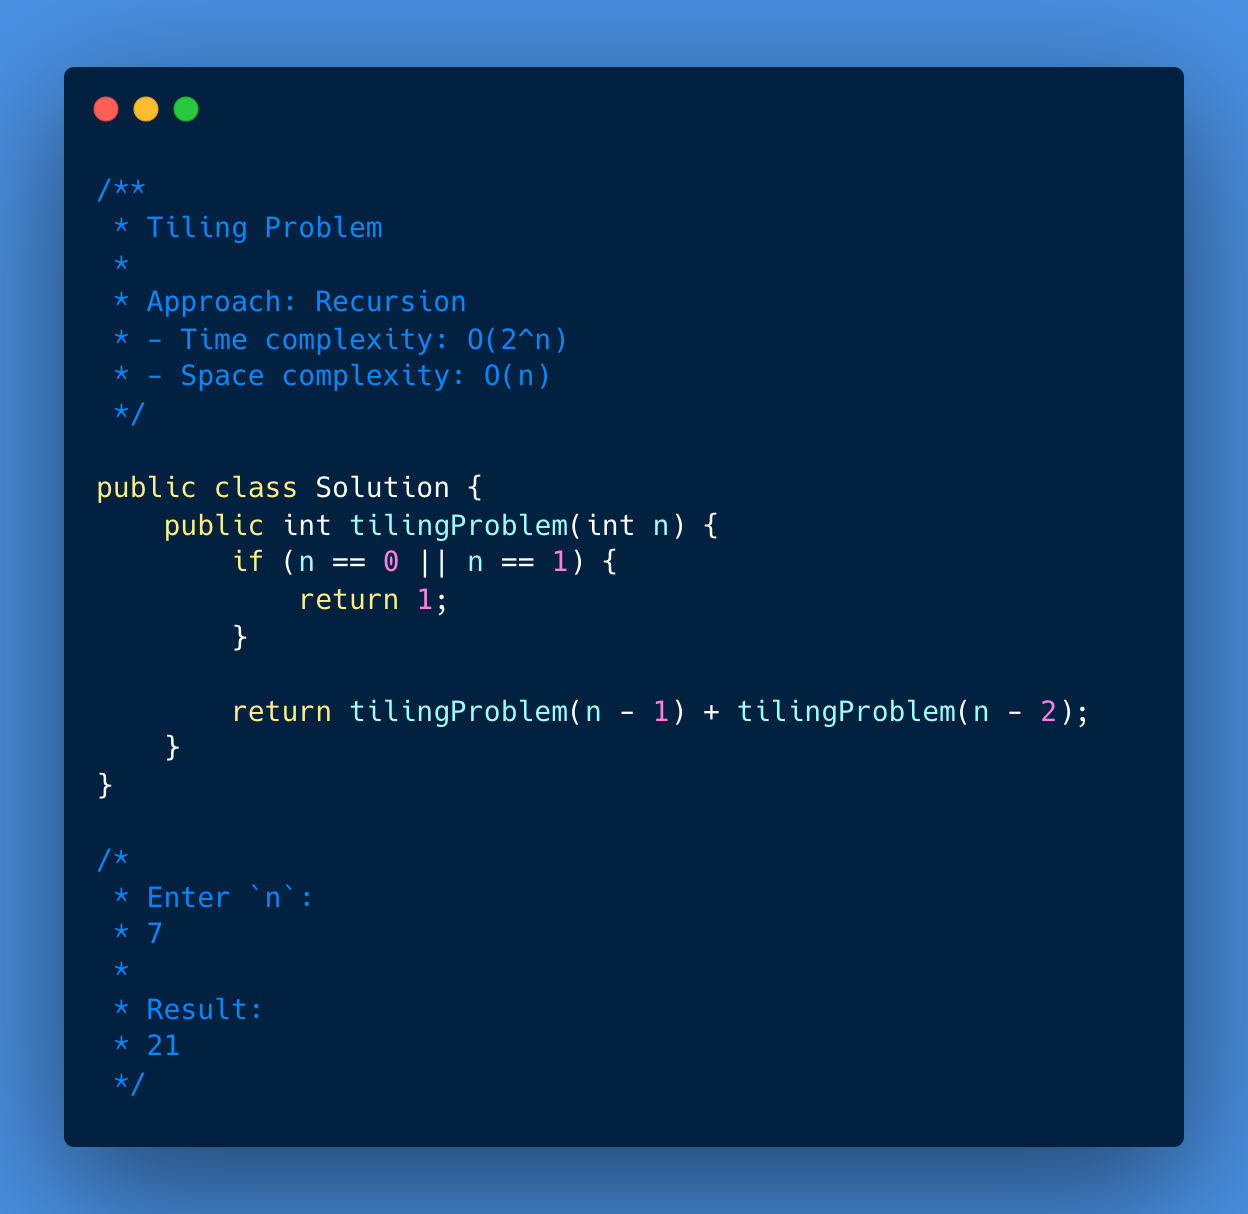
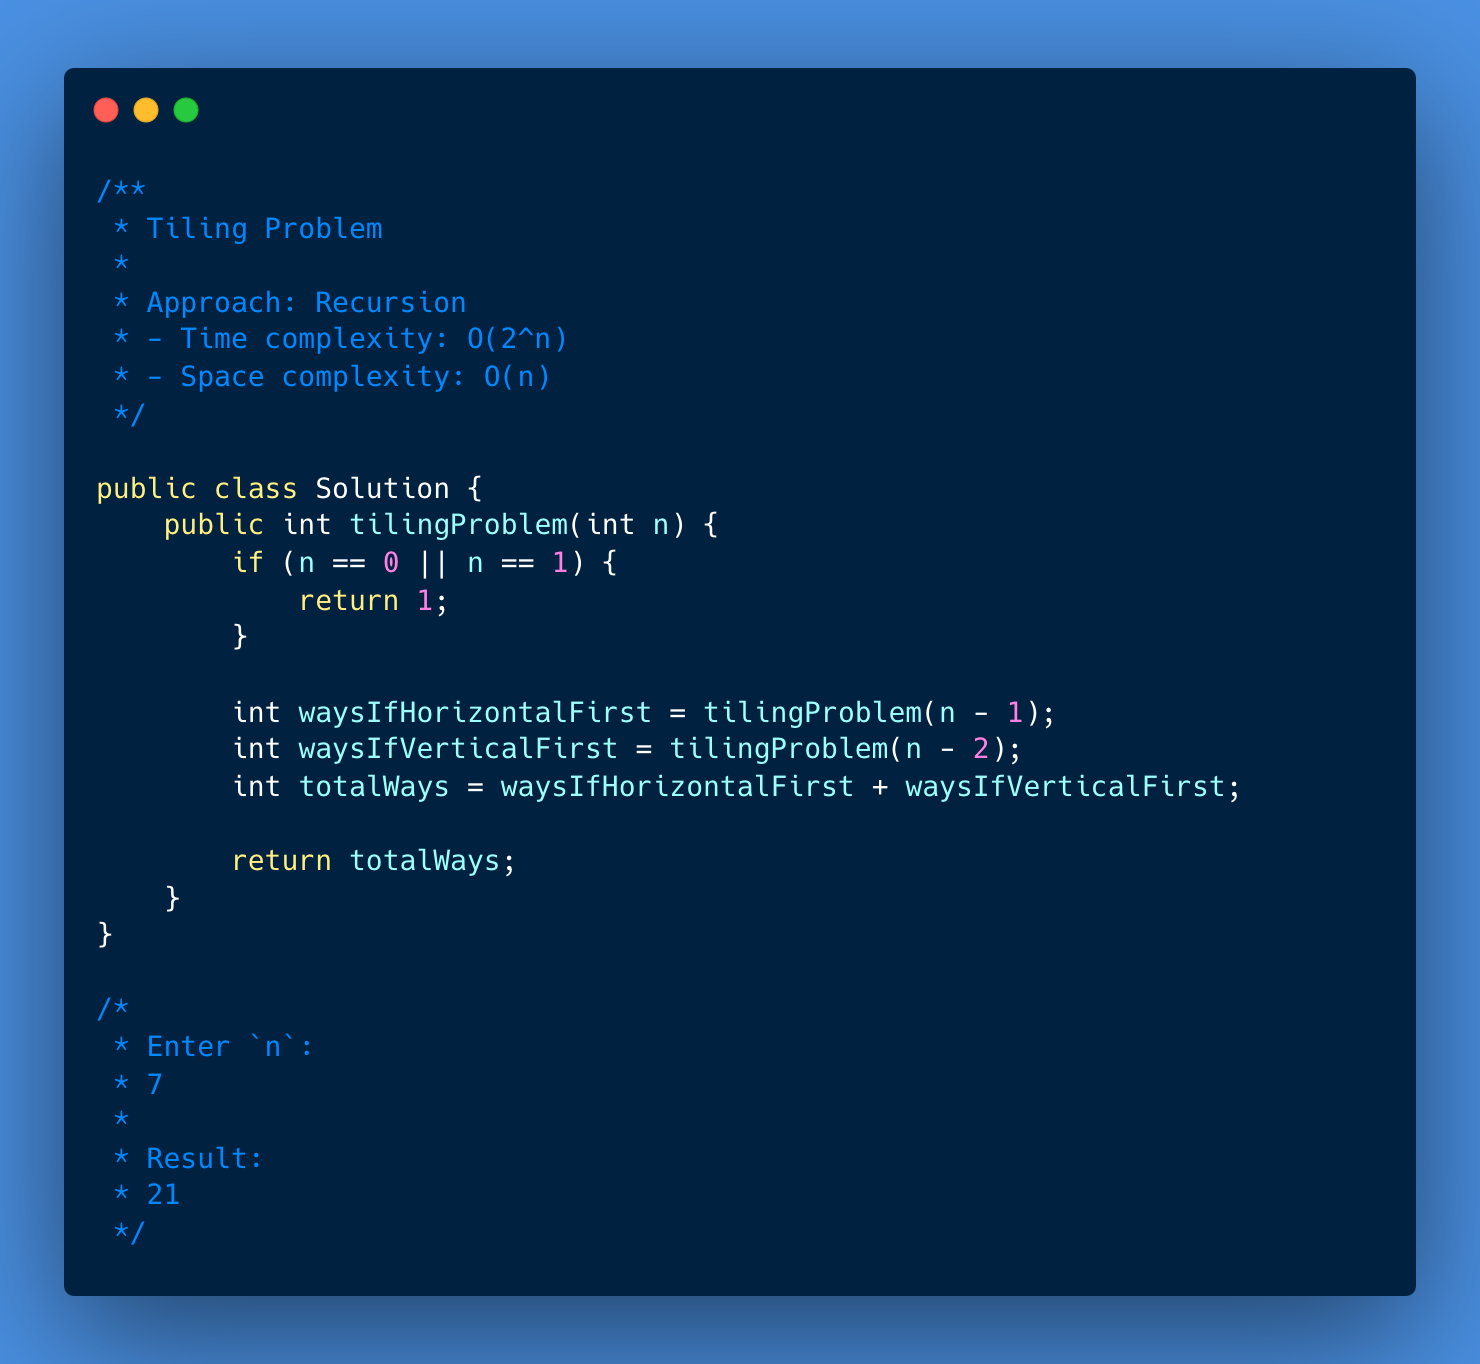
Fib and tiling problem updates

Changed region(s): [[0.0312, 0.0305, 0.9688, 0.9753], [0.0938, 0.8229, 0.1875, 0.9143]]

diff --git a/094-tiling-problem/001-solution/Solution.java b/094-tiling-problem/001-solution/Solution.java
@@ -12,7 +12,11 @@ public class Solution {
             return 1;
         }
 
-        return tilingProblem(n - 1) + tilingProblem(n - 2);
+        int waysIfHorizontalFirst = tilingProblem(n - 1);
+        int waysIfVerticalFirst = tilingProblem(n - 2);
+        int totalWays = waysIfHorizontalFirst + waysIfVerticalFirst;
+
+        return totalWays;
     }
 }
 
